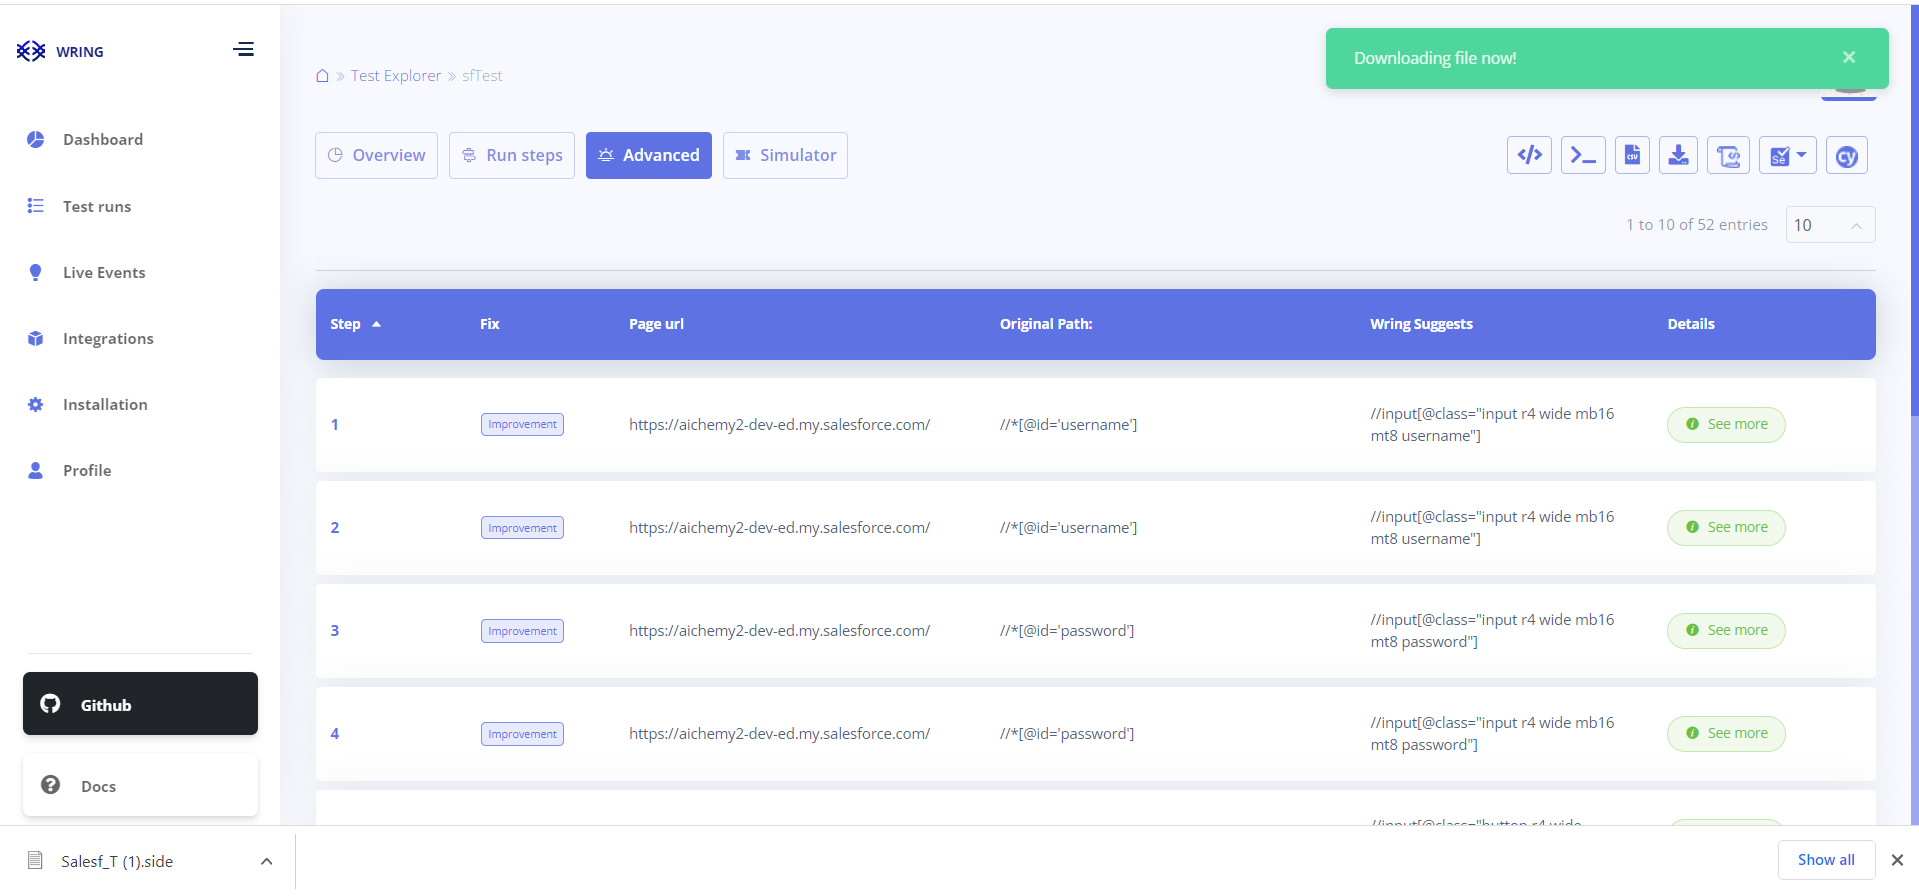
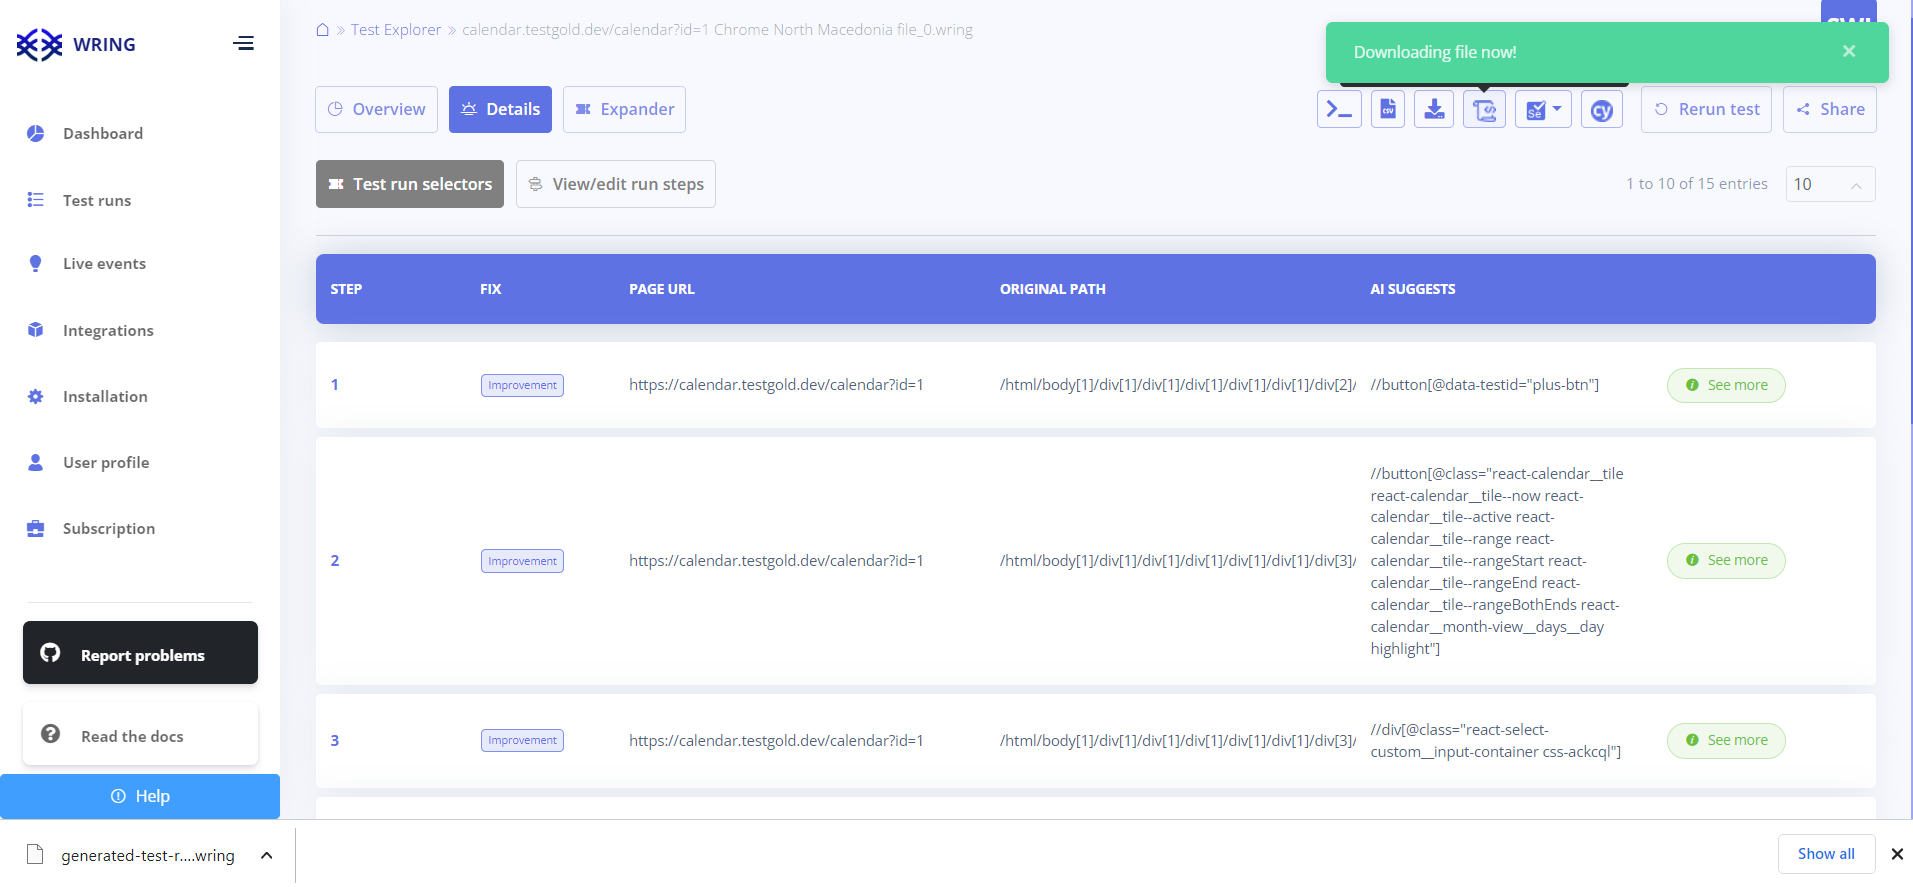
updates

diff --git a/docs/tutorial-basics/Test Runs/Test Enhancer/Get Started.md b/docs/tutorial-basics/Test Runs/Test Enhancer/Get Started.md
@@ -2,47 +2,47 @@
 sidebar_position: 1
 ---
 
-# Get Started with Simulator 
+# Get Started with Expander 
 
-## What is Simulator? 
+## What is Expander? 
 
 Tool for increasing coverage of your tests. It is able to intelligently alter your tests to find new paths in the application in order to detect new bugs.  It can alter your tests to find new behavior, which might be hard to find with test automation alone.
 
 Key features: **step exploration, variables, verify actions.**
 
-## What can Simulator do?
+## What can Expander do?
 
 
-1. Each step of the test can be “explored”. It means that during test Simulator runs, it will generate similar steps (will interact with similar elements). 
+1. Each step of the test can be “explored”. It means that during test Expander runs, it will generate similar steps (will interact with similar elements). 
 
 **Step exploration:**
 Exploration strategy helps you to speed up your testing process. The system will find similar elements (based on xpath and html attributes similarity) for any step with the “explored” flag. During simulation runs, “explored” step will not be repeated as it is, but instead, the same action will be performed on one of the similar elements. The choice of a particular similar element is determined by strategy.
 
-2. Test Simulator is able to generate new data using “variables” concept. During initial test run, all data used in the test will be mapped to a specific type (e.g. “John” -> “First name”, `john@gmail.com` -> “email”). During test Simulator runs, new data will be generated according to parsed type and names/values attributes will be recorded as well as any errors encountered during execution.
+2. Test Expander is able to generate new data using “variables” concept. During initial test run, all data used in the test will be mapped to a specific type (e.g. “John” -> “First name”, `john@gmail.com` -> “email”). During test Expander runs, new data will be generated according to parsed type and names/values attributes will be recorded as well as any errors encountered during execution.
 
 **Variables:**
 During initial test run, each field element (inputs, selects, textarea, etc.) is classified based on the data type this field element should contain. There are 15 different data types (e.g. email, password, first name, etc.). Besides, there are two groups of data type: with parameters (integer, float, set) and without (all others). Integer/float types should have range constraints, set type should have a complete array of values to draw from during data generation. 
 Each data value in any of the existing test steps will be automatically substituted by variable name (automatically generated). Each variable can be deactivated in order to specify that only original value should be used during simulation.
-During simulator runs, each step with ENTER action will input newly generated data based on its variable type (if the variable is active).
+During Expander runs, each step with ENTER action will input newly generated data based on its variable type (if the variable is active).
 All variables without parameters are always (independently from strategy) generated randomly (random email, address, etc.) Integer/float variables are always bucketed into constant value (5).
 
-3. In order to find specific bugs, verify action can be added as any step in your test. Verify action support complex operations with variables, so you can combine multiple variable in a single verify step. This allows Simulator catch dependencies between different elements of the web-page
+3. In order to find specific bugs, verify action can be added as any step in your test. Verify action support complex operations with variables, so you can combine multiple variable in a single verify step. This allows Expander catch dependencies between different elements of the web-page
 
 **Verify:**
-In order to find specific bugs, verify action can be added as any step in the test. There are following verify actions: Verify Equals, Verify Contains, Verify Page Contains. If verify condition fails during the simulator run, it is considered that there is a bug in the test.
-Verify action supports complex operations with variables, so you can combine multiple variables in a single verify step. This allows the simulator to catch dependencies between different elements of the web-page.
+In order to find specific bugs, verify action can be added as any step in the test. There are following verify actions: Verify Equals, Verify Contains, Verify Page Contains. If verify condition fails during the Expander run, it is considered that there is a bug in the test.
+Verify action supports complex operations with variables, so you can combine multiple variables in a single verify step. This allows the Expander to catch dependencies between different elements of the web-page.
 
 
 ### Try it out:
 
-A sample test can be setup to use the test Simulator on [https://dev.wring.dev](https://dev.wring.dev).
+A sample test can be setup to use the test Expander on [https://dev.wring.dev](https://dev.wring.dev).
 
 
 1. Use the `Send test` button from `Recorder testcase`, if you have recorded a testcase already. If not, you may upload a pre-recorded one that the testing tool has helped you generate.
 2. If you choose to upload a test (.side file) - You can run this test by uploading it from the test explorer tab - `Add Test` button.
-3. Once the test is complete, click on the test and navigate to the Simulator tab.
+3. Once the test is complete, click on the test and navigate to the Expander tab.
 
-![Wring Dashboard](/img/Enhancer.png)
+![Wring Dashboard](/img/enhancertest.png)
 
 
 4. Easiest way to get started is to add a variable. Click the variable button - there you can find autogenerated variables 
@@ -72,4 +72,4 @@ Here, See the variables that were modified in the previous distributions, and mo
 
 7. Select an agent and type the episode value.
 
-To check more on Simulator Runs, please go to next document page.
+To check more on Expander Runs, please go to next document page.

diff --git a/docs/tutorial-basics/Test Runs/Test Enhancer/Simulator Runs.md b/docs/tutorial-basics/Test Runs/Test Enhancer/Simulator Runs.md
@@ -2,7 +2,7 @@
 sidebar_position: 2
 ---
 
-# Simulator Runs
+# Expander Runs
 
 ## Strategies (Algorithms)
  
@@ -11,9 +11,21 @@ Every step any algorithm generates list of candidate actions:
 - case when step contains variables with range: candidates are all buckets/values (if set).
 - If step has no “explore” flag and no variables: the only candidate is original action
 
-Algorithm should select an action from a list of candidates every step during simulator run. Here, the candidate can take multiple actions sequentially or simultaneously.
+Algorithm should select an action from a list of candidates every step during Expander run. Here, the candidate can take multiple actions sequentially or simultaneously.
 
-After you press run, you see a modal window and look at four options there.
+After you press run, you see a modal window and look at two options there.
+
+Recommended - *run exploration by default*
+
+- **Exploration** - *Perform exploration runs. Auto verifications will be computed. Explore and validate new features for your app, including interactions and behaviors.*
+
+*Total amount of episodes:  num_explorable_steps! - number of ways to arrange steps* 
+
+![Wring Dashboard](/img/expander1.png)
+
+
+Advanced runs - *There are four options*
+
 - **Randomize** - *Randomize data used in testing.*
 *Randomize is a deterministic algorithm, which means that it does not take into consideration order or dependence between steps. It provides final action sampling via a sampling technique called pseudo-randomness. This strategy repeats the same steps at every decision point, regardless of which actions have already been selected and whether those actions have already been performed. Final action will be sampled randomly from the candidate list at any step. Doesn’t take into consideration order or dependence between steps. Can repeat the same steps throughout episodes.*
 
@@ -26,7 +38,7 @@ After you press run, you see a modal window and look at four options there.
 *Total amount of episodes: number of rows in datafile (number of elements in “set” array).*
 
 - **Exhaustive** - *Covers all data combinations. Larger episode sizes provide better results.*
-*Each simulator episode only one step with candidates changes the current candidate, other steps are fixed. When all candidates of that one step are exhausted, the algorithm moves to another step and tries candidates of that step. That is happening until all possible candidate combinations are explored.*
+*Each Expander episode only one step with candidates changes the current candidate, other steps are fixed. When all candidates of that one step are exhausted, the algorithm moves to another step and tries candidates of that step. That is happening until all possible candidate combinations are explored.*
 
 *Total amount of episodes:  num_cand_1 * num_cand_2 *... * num_cand_n, where n is number of steps with candidates*
 
@@ -35,11 +47,12 @@ After you press run, you see a modal window and look at four options there.
 
 *Total amount of episodes:  num_explorable_steps! - number of ways to arrange steps*
 
-- **Exploration** - *Perform exploration runs. Auto verifications will be computed. Explore and validate new features for your app, including interactions and behaviors.*
-
-*Total amount of episodes:  num_explorable_steps! - number of ways to arrange steps*
-
 ![Wring Dashboard](/img/agents.png)
+
+One thing Expander lets you do is connect its runs with Live events with only one click away. Those can be merged with the existing projects inside your account and also, you can see this session on live events and see what expander does.
+
+![Wring Dashboard](/img/connect.png)
+
 
 If you select any agent, e.g. `permutation` - it gets every `select` action that we valued as `yes` on `explore` from `edit` steps.
  
@@ -62,10 +75,10 @@ In the `Detail button`, you have `steps` button - where you can check all the st
 
 ![Wring Dashboard](/img/v.png)
 
-- **Delete** - *you can easily delete simulator runs* 
+- **Delete** - *you can easily delete Expander runs* 
 
 ![Wring Dashboard](/img/delete.png)
 
-You can also download the Simulator runs report, which it provides screenshots and all the necessary details.
+<!-- You can also download the Expander runs report, which it provides screenshots and all the necessary details.
 
-![Wring Dashboard](/img/r1.png)
+![Wring Dashboard](/img/r1.png) -->

diff --git a/docs/Examples/side.md b/docs/Examples/side.md
@@ -2,9 +2,9 @@
 sidebar_position: 4
 ---
 
-# Side file -Simulator Example
+# Side file - Expander Example
 
-#### *How to run Simulator for side files?*
+#### *How to run Expander for side files?*
 
 Instructions: 
 
@@ -15,17 +15,17 @@ This is how it looks in browser for [Calendar](https://calendar.testgold.dev/):
 
 ![Side](/img/side1.png)
 
-3. Go to Simulator/Setup and you will see all the steps
+3. Go to Expander/Setup and you will see all the steps
 
-![Side](/img/simulator.png)
+![Side](/img/Simulator.png)
 
 4. . Edit all `select` actions – Explore from No to Yes ( `Explore: Yes`)
 
-![Side](/img/simulator1.png)
+![Side](/img/Simulator1.png)
 
 5. After the second `select` action, add manually `Save` and `verify_contains` steps from `Add` button.
 
-![Side](/img/simulator2.png)
+![Side](/img/Simulator2.png)
 
 6. Add these steps manually: 
 
@@ -33,13 +33,13 @@ This is how it looks in browser for [Calendar](https://calendar.testgold.dev/):
 -  `SAVE` "//a[contains(string(), "Confirm")]/preceding-sibling::a/div[1]" into "timeslot"
 -  `VERIFY_CONTAINS` css selector "div.af-confirm" - ${timeslot} + ${duration}
 
-![Side](/img/simulator3.png)
+![Side](/img/Simulator3.png)
 
-7. After adding these steps, simulator steps will look like this: 
+7. After adding these steps, Expander steps will look like this: 
 
-![Side](/img/simulator4.png)
+![Side](/img/Simulator4.png)
 
-8. Now you're ready to run our agents. You have `Run the simulator` button in top-right.
+8. Now you're ready to run our agents. You have `Run the Expander` button in top-right.
 Then, you can start running one of our agents. 
 
  - Randomize
@@ -47,11 +47,11 @@ Then, you can start running one of our agents.
  - Exhaustive
  - Permutation
 
-![Side](/img/simulator5.png)
+![Side](/img/Simulator5.png)
 
-9. In Simulator/Runs, you will see agent runs. 
+9. In Expander/Runs, you will see agent runs. 
 
-![Side](/img/simulator6.png)
+![Side](/img/Simulator6.png)
 
 10. Here you will check if agents found any bugs(try permutation), Go to Episodes. Here you see that there are two runs, and in one of them has found a bug.
 

diff --git a/docs/tutorial-basics/Overview Page/overview.md b/docs/tutorial-basics/Overview Page/overview.md
@@ -44,7 +44,7 @@ We also support videos for all our testcases, as you can see below. Rather than 
 
 ![Filter](/img/overview.png)
 
-You can generate a shareable url that only you have control. Wring allow you to generate a shareable url and share your test with your colleague and allow them to see the test, edit/add steps, run the simulator, and modify variables. 
+You can generate a shareable url that only you have control. Wring allow you to generate a shareable url and share your test with your colleague and allow them to see the test, edit/add steps, run the Expander, and modify variables. 
 
 It's a good idea to share your tests with colleagues. That way they can see what you were doing and make sure they don't make the same mistake again. You can also get away with leaving out all the details by sharing a test scenario with a detailed description, along with any bugs or steps that need to be fixed.
 

diff --git a/docs/tutorial-basics/Test Runs/Test Enhancer/Datafile.md b/docs/tutorial-basics/Test Runs/Test Enhancer/Datafile.md
@@ -4,7 +4,7 @@ sidebar_position: 3
 
 # Data File Upload Variables
 
-To analyze variables, use a data file that contains events and their associated variables. You can upload these in a file format such as CSV, XLS or other text files. Alternatively, you can enter event data directly into the simulator interface. To perform an attribute analysis, use an event data file that includes attribute values for your events.
+To analyze variables, use a data file that contains events and their associated variables. You can upload these in a file format such as CSV, XLS or other text files. Alternatively, you can enter event data directly into the Expander interface. To perform an attribute analysis, use an event data file that includes attribute values for your events.
 
 ![Datafile](/img/datafile.png)
 

diff --git a/docs/versions.md b/docs/versions.md
@@ -4,7 +4,7 @@ sidebar_position: 8
 
 # Supported Versions
 
-The table below contains information regarding the supported versions for each of our interceptors. If a version you require is not supported, please reach out to support at support@wring.dev to discuss solutions.
+The table below contains information regarding the supported versions for each of our interceptors. If a version you require is not supported, please reach out to support at team@wring.dev to discuss solutions.
 
 | Selenium Java | Selenium Javascript | Selenium Python | Cypress          |
 | ------------- | ------------------- | --------------- | ---------------  |

diff --git a/docs/tutorial-extras/getting-started.md b/docs/tutorial-extras/getting-started.md
@@ -20,7 +20,7 @@ Page`.
 
 The installation page requires an activated account. Account activation can take
 up to 24 hours. If your account has not been activated within 24 hours please
-contact <support@wring.dev>
+contact <team@wring.dev>
 
 :::
 

diff --git a/docs/tutorial-basics/Test Runs/Details/Run_steps.md b/docs/tutorial-basics/Test Runs/Details/Run_steps.md
@@ -2,7 +2,7 @@
 sidebar_position: 2
 ---
 
-# Run steps
+# View/edit run steps
 
 Here, you can see all test steps with selectors and screenshots with hightlights for each step. 
 

diff --git a/docs/tutorial-basics/Test Runs/Details/Advanced.md b/docs/tutorial-basics/Test Runs/Details/Advanced.md
@@ -1,7 +1,7 @@
 ---
 sidebar_position: 4
 ---
-
+# Test Run Selectors
 
 ### Selectors and download options
 
